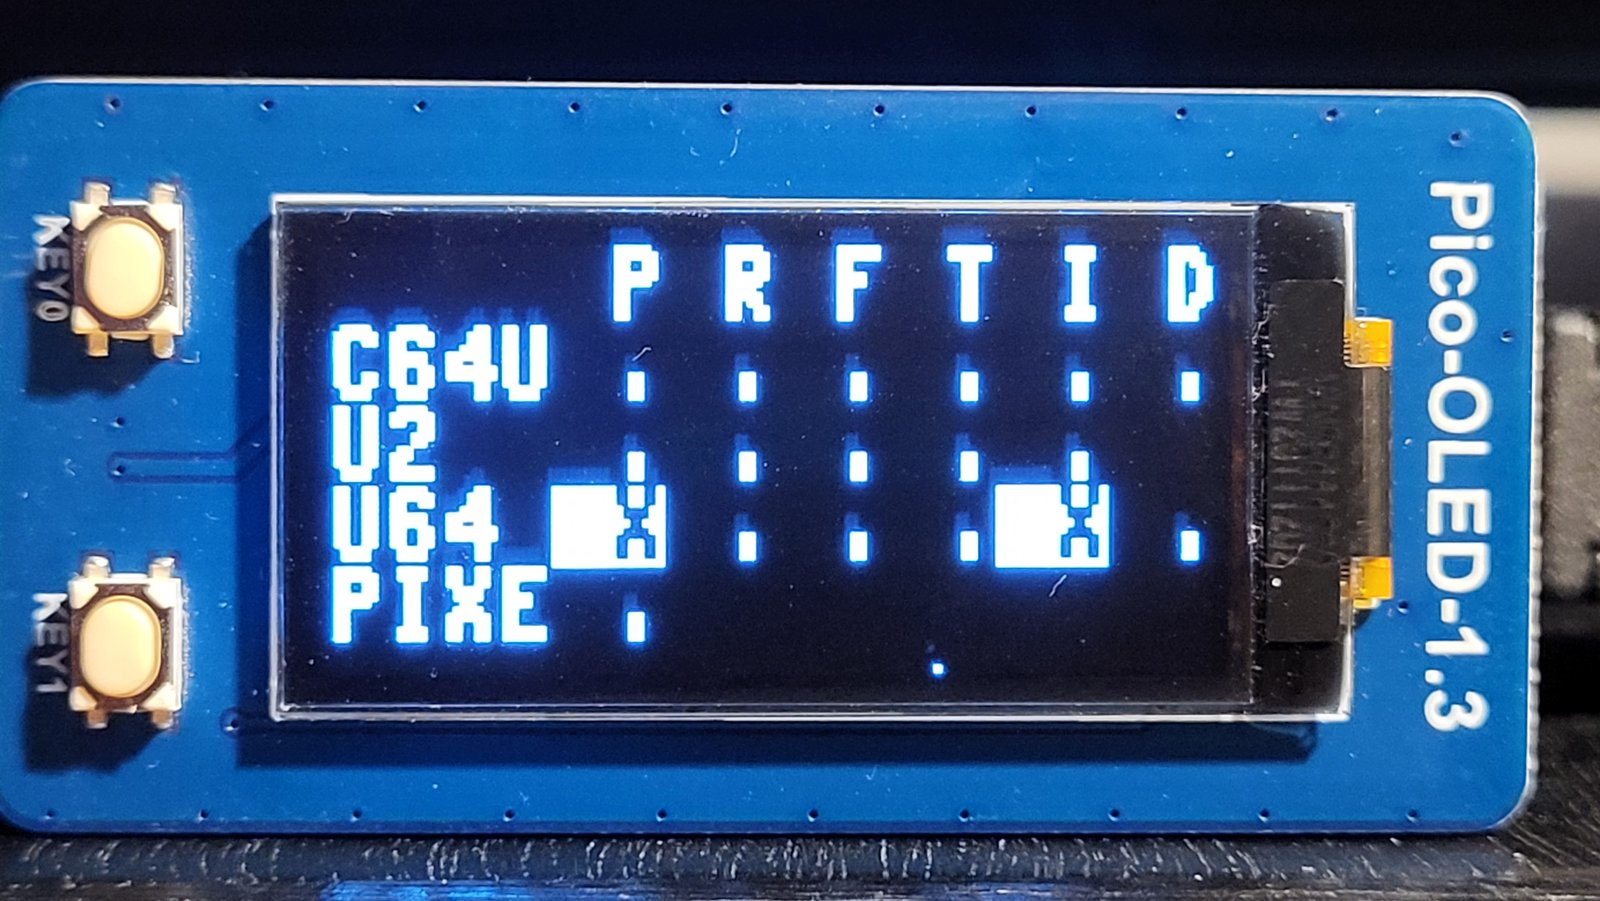
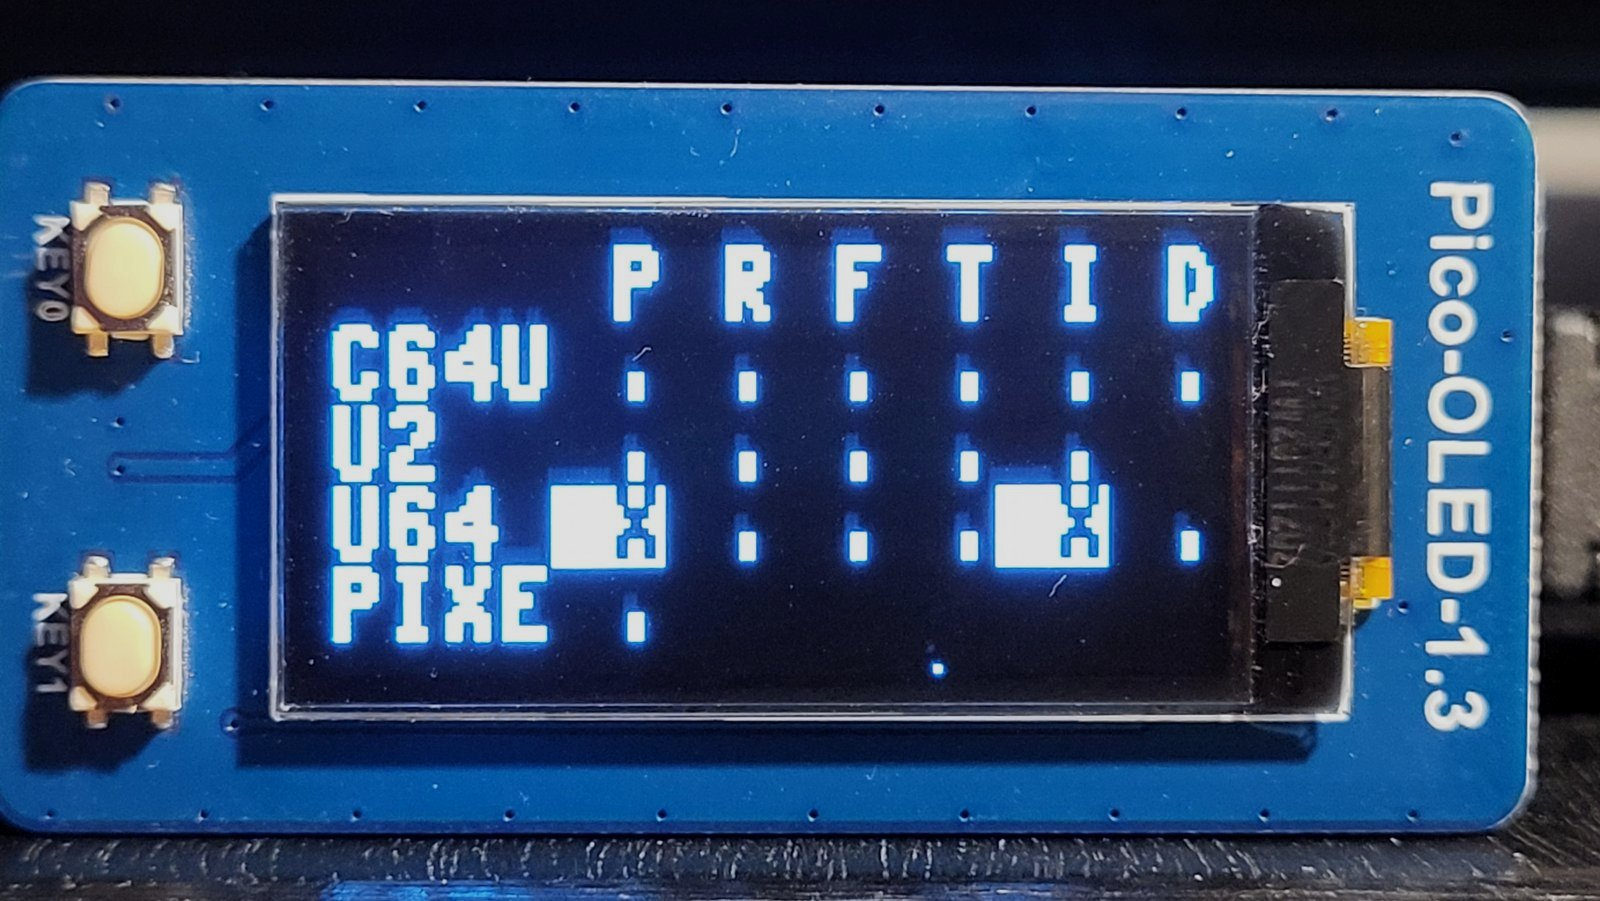
Match matrix README image brightness to other OLED shots; note both U64 failures
- Darken the matrix example image (luma ~80 -> ~70) to match the other OLED
  photos on the page.
- Caption/alt now note the two failing cells: U64 PING and U64 IDENT.

diff --git a/README.md b/README.md
@@ -228,9 +228,9 @@ This is different from the detail view. Each check has exactly one detail page. 
 To fit every probe on a single non-scrolling screen, set `mode: matrix` on the display in `config/build-deploy.local.yaml` (the supported modes are `standard` (default), `compact`, and `matrix`). The matrix draws one row per device and one column per probe class — `P` ping, `R` REST/HTTP, `F` FTP, `T` telnet, `I` ident, `D` DMA — with a single glyph per cell: `.` OK, `!` degraded, `X` failed (reverse video), `?` unknown, and blank when that probe is not configured for the device.
 
 <p align="center">
-  <img src="./docs/img/vivipi_tested_pico_oled_fail_matrix.jpg" alt="Waveshare Pico OLED 1.3 in matrix mode: a compact glyph grid with one row per device (C64U, U2, U64, PIXEL4) and one column per probe class (P R F T I D). Every cell shows a dot for OK except one probe failing, marked by an inverse X." width="720">
+  <img src="./docs/img/vivipi_tested_pico_oled_fail_matrix.jpg" alt="Waveshare Pico OLED 1.3 in matrix mode: a compact glyph grid with one row per device (C64U, U2, U64, PIXEL4) and one column per probe class (P R F T I D). Every cell shows a dot for OK except two failing U64 probes, PING and IDENT, each marked by an inverse X." width="720">
   <br>
-  <em>Matrix view: all probes on one page, everything OK except a single failure (inverse X)</em>
+  <em>Matrix view: all probes on one page, all OK except two U64 failures (PING and IDENT), each shown as an inverse X</em>
 </p>
 
 On the tested monochrome OLED build, `Key 1` / button `b` toggles between the overview and the detail page for the currently selected check. `Key 0` / button `a` advances through the checks; in detail mode, that means stepping from one probe's detail page to the next. Displays without buttons still show the overview pages, but they cannot open probe-specific detail pages interactively.
